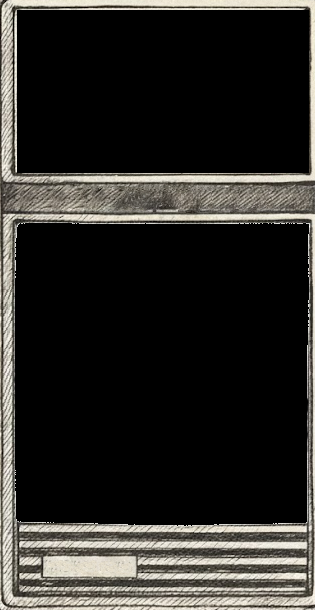
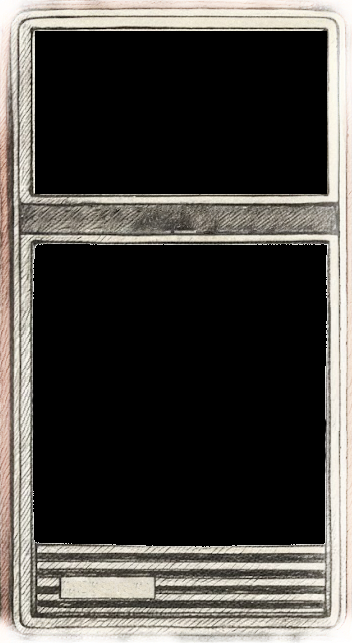
Improves mobile experience and updates colors

diff --git a/src/components/Radio.svelte b/src/components/Radio.svelte
@@ -91,7 +91,7 @@
 	}
 	.cover-area.is-on {
 		background-color: rgba(0, 0, 0, 0.9);
-		box-shadow: 0 0 10px #00ff00;
+		box-shadow: 0 0 10px #cd4276;
 		animation: crt-turn-on 0.8s cubic-bezier(0.68, -0.55, 0.265, 1.55) forwards;
 	}
 
@@ -100,12 +100,6 @@
 		height: 100%;
 		object-fit: cover;
 		animation: crt-flicker 0.15s infinite;
-	}
-
-	.cover-placeholder {
-		width: 100%;
-		height: 100%;
-		background: linear-gradient(135deg, #1a1a1a 0%, #2a2a2a 100%);
 	}
 
 	/* Display area - positioned absolute over the radio */
@@ -118,13 +112,13 @@
 		padding: 1rem;
 		background: rgba(0, 0, 0, 0.8);
 		border-radius: 4px;
-		color: #00ff00;
+		color: #cd4276;
 		font-family: monospace;
 		transition: all 1s ease;
 	}
 	.display-area.is-on {
 		background-color: rgba(0, 0, 0, 0.9);
-		box-shadow: 0 0 10px #00ff00;
+		box-shadow: 0 0 10px #cd4276;
 		animation: crt-turn-on 0.6s cubic-bezier(0.68, -0.55, 0.265, 1.55) forwards;
 	}
 
@@ -134,7 +128,7 @@
 		text-overflow: ellipsis;
 		opacity: 0.8;
 		font-weight: bold;
-		text-shadow: 0 0 3px #00ff00;
+		text-shadow: 0 0 3px #cd4276;
 		animation: crt-text-glow 2s ease-in-out infinite alternate;
 	}
 	.display.row-1 {
@@ -208,8 +202,8 @@
 		pointer-events: none;
 		background: radial-gradient(
 			ellipse at center,
-			rgba(0, 255, 0, 0.1) 0%,
-			rgba(0, 255, 0, 0.05) 40%,
+			rgba(205, 66, 118, 0.1) 0%,
+			rgba(205, 66, 118, 0.05) 40%,
 			transparent 70%
 		);
 		animation: crt-pulse 4s ease-in-out infinite;
@@ -271,15 +265,15 @@
 	@keyframes crt-text-glow {
 		0% {
 			text-shadow:
-				0 0 3px #00ff00,
-				0 0 5px #00ff00;
+				0 0 3px #cd4276,
+				0 0 5px #cd4276;
 			opacity: 0.8;
 		}
 		100% {
 			text-shadow:
-				0 0 4px #00ff00,
-				0 0 8px #00ff00,
-				0 0 12px rgba(0, 255, 0, 0.5);
+				0 0 4px #cd4276,
+				0 0 8px #cd4276,
+				0 0 12px rgb(205, 66, 118, 0.5);
 			opacity: 0.9;
 		}
 	}
@@ -294,56 +288,61 @@
 		}
 	}
 
-	/* Responsive adjustments for smaller text */
-	@media (max-width: 768px) {
-		.display-area {
-			padding: 0.5rem;
-		}
-
-		.display.row-1 {
-			font-size: 0.75rem;
-		}
-
-		.display.row-2 {
-			font-size: 0.625rem;
-		}
-	}
-
-	@media (max-width: 480px) {
-		.display-area {
-			padding: 0.25rem;
-		}
-
-		.display.row-1 {
-			font-size: 0.625rem;
-		}
-
-		.display.row-2 {
-			font-size: 0.5rem;
-		}
-	}
-
 	@media (orientation: portrait) and (max-width: 700px) {
+		.wrapper {
+			position: relative;
+			display: block;
+			width: 100vw;
+			height: 180vw;
+		}
+
 		.radio-image {
 			background-image: url("/radio-mobile.png");
+			height: 100%;
+			width: 100%;
+			display: block;
+			object-fit: contain;
+			background-repeat: no-repeat;
+			background-position: center;
+			background-size: contain;
 		}
 
 		.cover-area {
-			left: 215px;
-			top: 298px;
-			width: 380px;
-			height: 380px;
+			left: 11vw;
+			top: 70vw;
+			height: 81vw;
+			width: 80vw;
 		}
+
 		.display-area {
-			left: 215px;
-			top: 18px;
-			width: 380px;
-			height: 204px;
+			left: 11vw;
+			top: 10vw;
+			width: 80vw;
+			height: 44vw;
+		}
+
+		.display-area {
+			padding: 2.5vw;
+		}
+
+		.display.row-1 {
+			font-size: 5vw;
+		}
+
+		.display.row-2 {
+			font-size: 4.5vw;
+		}
+		.display.row-3 {
+			font-size: 4.5vw;
 		}
 
 		.power-button {
 			position: absolute;
-			left: 522px;
+			left: unset;
+			width: 16vw;
+			height: 16vw;
+			top: 156vw;
+			right: 12%;
 		}
 	}
 </style>

diff --git a/src/routes/Player.svelte b/src/routes/Player.svelte
@@ -5,13 +5,12 @@
 	import { isAdmin } from "@/api";
 	import {
 		currentlyPlayingMedium,
-		broadcastScheduleStore,
 		nextRecording,
 		isPlaying,
 		notifyTrackFinished,
 	} from "@/api/broadcast";
 	import { onMount, onDestroy } from "svelte";
-	import { fly } from "svelte/transition";
+	import { fade } from "svelte/transition";
 	import {
 		storeOriginalTitle,
 		updateDocumentTitle,
@@ -213,7 +212,7 @@
 				updateBrowserTitle();
 			}
 		} else {
-			instructions = "Tryck på strömknappen för att börja lyssna";
+			instructions = "";
 			currentTrackId = null;
 			if (audioElement) {
 				audioElement.pause();
@@ -306,7 +305,7 @@
 		display3={$nextRecording ? `Nästa: ${$nextRecording.title}` : ""}
 	/>
 	{#if instructions}
-		<div class="instructions" transition:fly>
+		<div class="instructions" transition:fade>
 			{instructions}
 		</div>
 	{/if}
@@ -333,5 +332,11 @@
 		margin-top: 2rem;
 		margin-bottom: 2rem;
 		text-align: center;
+	}
+
+	@media (orientation: portrait) and (max-width: 700px) {
+		.instructions {
+			order: 1;
+		}
 	}
 </style>
